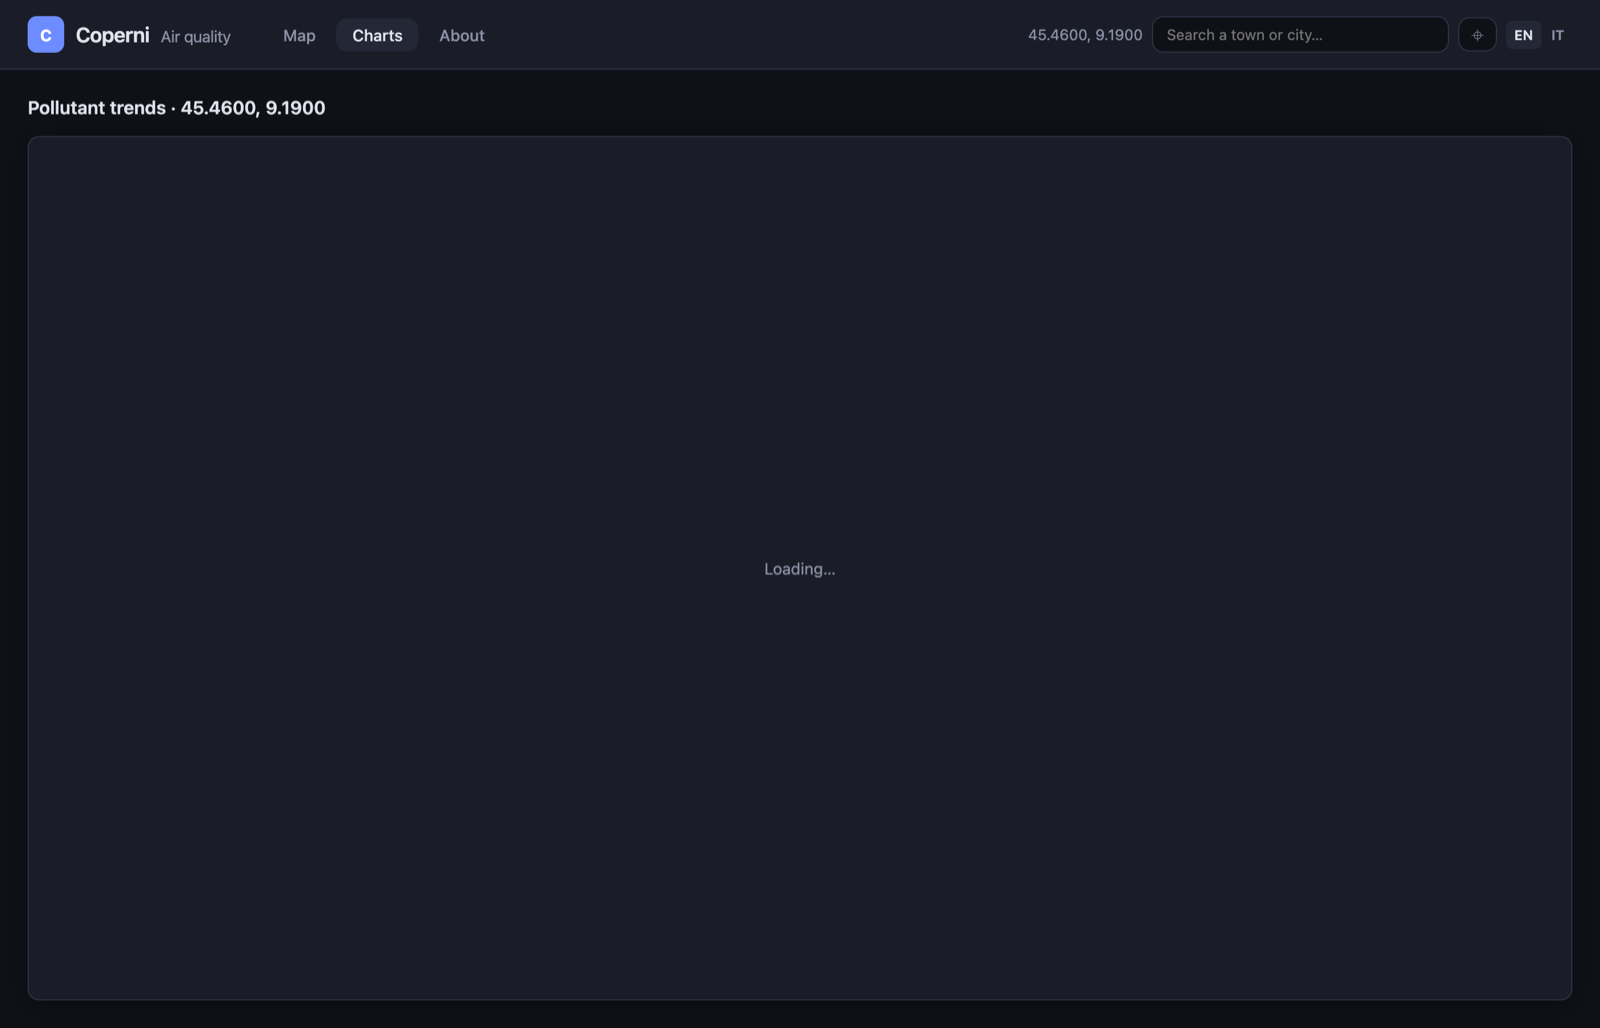
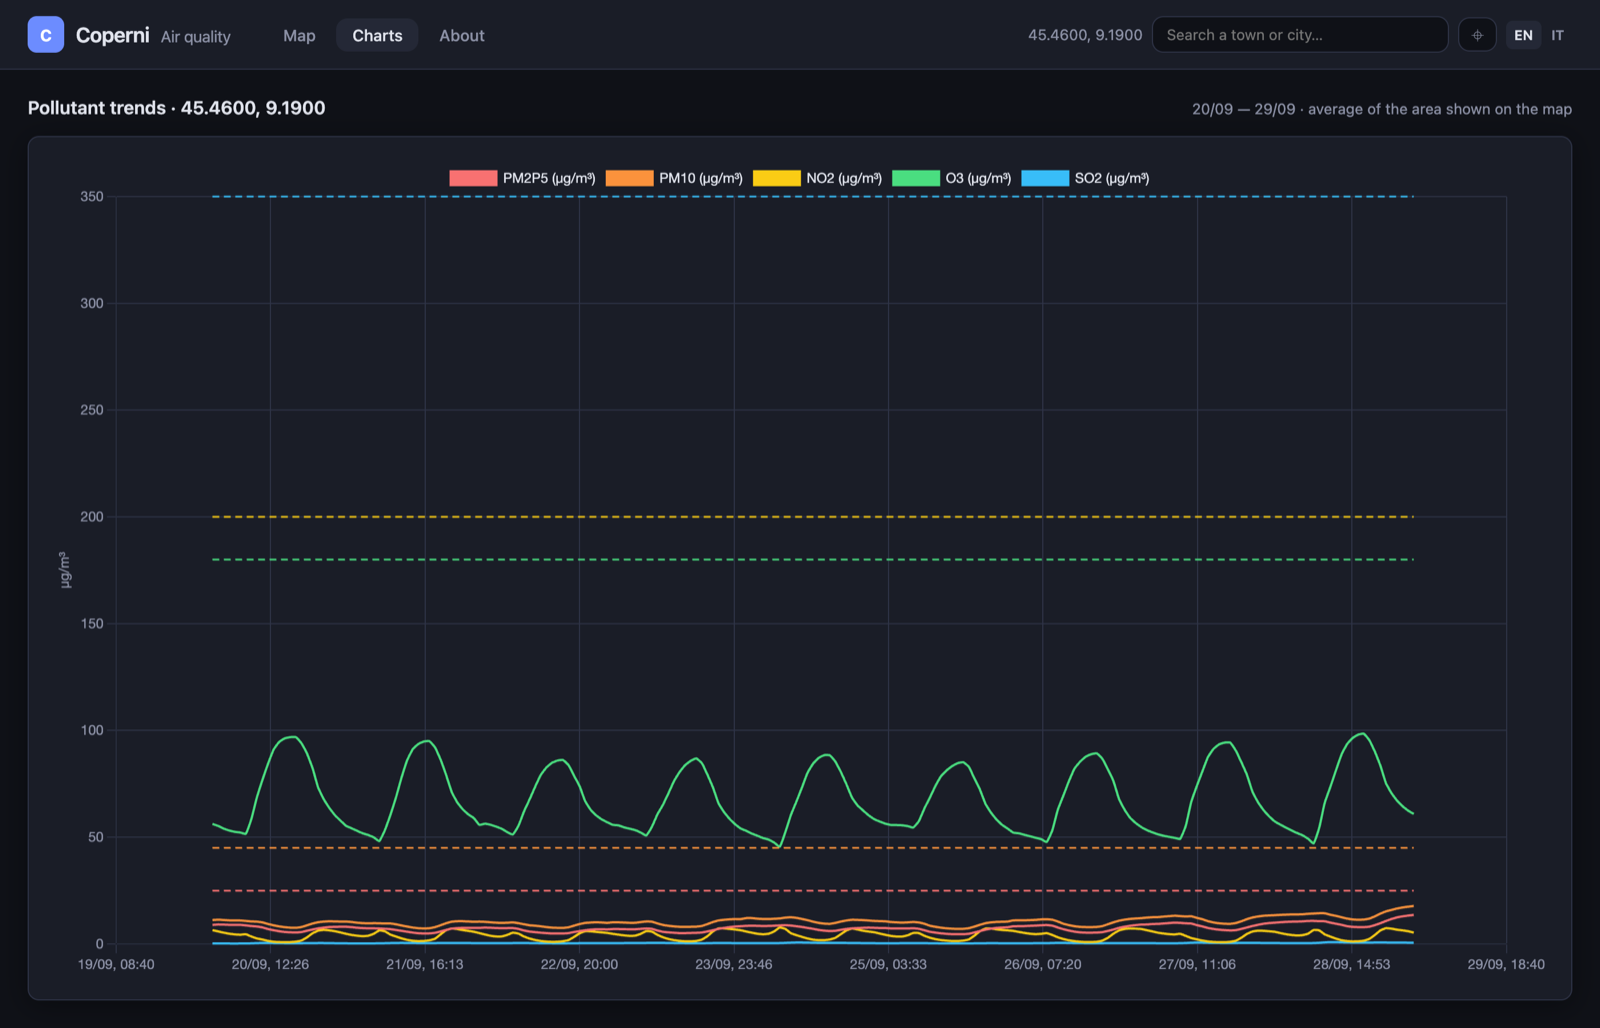
Replace CARTO basemaps with OpenFreeMap
CARTO's free tier (5M tiles/month, about 80k visits) would have become
$500/month, and its API key was visible in the page source.

- OpenFreeMap vector tiles (no key, no limits), dark and positron styles,
  drawn by MapLibre GL 5.24 under Leaflet via maplibre-gl-leaflet
- Style split in two: base under the cells, place labels above them in
  the page language; road names and shields dropped; dark style labels
  brightened and roads dimmed
- CARTO_API_KEY and CARTO_BASEMAP_STYLE removed; MAP_BASEMAP=dark|light
- Attribution, docs and README screenshots updated

diff --git a/places/templates/_base_map.html b/places/templates/_base_map.html
@@ -9,6 +9,9 @@
           integrity="sha256-p4NxAoJBhIIN+hmNHrzRCf9tD/miZyoHS5obTRR9BMY=" crossorigin=""/>
     <script src="https://unpkg.com/leaflet@1.9.4/dist/leaflet.js"
             integrity="sha256-20nQCchB9co0qIjJZRGuk2/Z9VM+kNiyxNV1lvTlZBo=" crossorigin=""></script>
+    <link rel="stylesheet" href="https://cdn.jsdelivr.net/npm/maplibre-gl@5.24.0/dist/maplibre-gl.css">
+    <script src="https://cdn.jsdelivr.net/npm/maplibre-gl@5.24.0/dist/maplibre-gl.js"></script>
+    <script src="https://cdn.jsdelivr.net/npm/@maplibre/maplibre-gl-leaflet@0.1.4/leaflet-maplibre-gl.js"></script>
     <style>
         *, *::before, *::after {
             margin: 0;
@@ -254,42 +257,93 @@
     }
     inquadra(limitiStimati(LATI[0]));
 
-    const CARTO_URL = 'https://{s}.basemaps.cartocdn.com/rastertiles/{style}/{z}/{x}/{y}.png?key={{ carto_api_key }}';
-    const cartoOptions = { subdomains: 'abcd', maxZoom: 19 };
-
-    // Sfondo chiaro o scuro (CARTO light_* / dark_*): default da CARTO_BASEMAP_STYLE, poi la
-    // scelta dell'utente ricordata nel browser. Il basemap è spezzato in due tile layer: sfondo
-    // senza etichette sotto, sole etichette sopra il layer inquinante (pane dedicato), così
-    // toponimi e strade restano leggibili attraverso il colore.
-    const SFONDI = ['dark', 'light'];
-    let sfondo = '{{ carto_sfondo }}';
+    // Sfondo OpenFreeMap (tile vettoriali, gratuite, senza chiave) disegnato da MapLibre GL sotto
+    // Leaflet. Lo stile è spezzato in due: sfondo senza etichette sotto le celle, sole etichette
+    // (layer "symbol") sopra, nel pane dedicato, così toponimi e strade restano leggibili
+    // attraverso il colore. Le etichette usano il nome nella lingua della pagina quando esiste.
+    const STILI = { dark: 'dark', light: 'positron' };
+    const SFONDI = Object.keys(STILI);
+    const LINGUA = document.documentElement.lang;
+    let sfondo = '{{ sfondo }}';
     try {
         const salvato = localStorage.getItem('coperni.sfondo');
         if (SFONDI.includes(salvato)) sfondo = salvato;
     } catch (e) { /* storage non disponibile: resta il default */ }
 
-    const baseLayer = L.tileLayer(CARTO_URL, {
-        ...cartoOptions,
-        style: `${sfondo}_nolabels`,
-        attribution: '&copy; <a href="https://www.openstreetmap.org/copyright">OSM</a> &copy; <a href="https://carto.com/">CARTO</a>',
-    }).addTo(map);
+    map.attributionControl.addAttribution(
+        '<a href="https://openfreemap.org" target="_blank">OpenFreeMap</a> ' +
+        '<a href="https://www.openmaptiles.org/" target="_blank">&copy; OpenMapTiles</a> ' +
+        'Data from <a href="https://www.openstreetmap.org/copyright" target="_blank">OpenStreetMap</a>');
 
     map.createPane('labels');
     map.getPane('labels').style.zIndex = 450;   // sopra overlayPane (400), sotto i popup (700)
     map.getPane('labels').style.pointerEvents = 'none';
-    const labelsLayer = L.tileLayer(CARTO_URL, { ...cartoOptions, style: `${sfondo}_only_labels`, pane: 'labels' }).addTo(map);
-    document.getElementById('map').dataset.sfondo = sfondo;
 
-    function impostaSfondo(nome) {
+    // lo stile Dark di OpenFreeMap ha nomi piccoli e spenti e strade molto evidenti: sotto le celle
+    // colorate i luoghi si leggevano male. Nomi più chiari e grandi con alone, strade attenuate.
+    // moltiplica i valori di una dimensione: numero, {stops: [[zoom, v]…]} o ["interpolate", …, zoom, v…]
+    function scala(valore, k) {
+        if (typeof valore === 'number') return valore * k;
+        if (valore?.stops) return { ...valore, stops: valore.stops.map(([z, v]) => [z, v * k]) };
+        if (Array.isArray(valore) && valore[0] === 'interpolate') {
+            return valore.map((v, i) => (i >= 4 && i % 2 === 0 && typeof v === 'number') ? v * k : v);
+        }
+        return valore;
+    }
+
+    function ritoccaScuro(stile) {
+        for (const l of stile.layers) {
+            if (l.type === 'symbol' && l['source-layer'] === 'place') {
+                l.paint = { ...l.paint, 'text-color': '#d4d8e2', 'text-halo-color': '#0e0e0e', 'text-halo-width': 1.4 };
+                if (l.layout['text-size'] !== undefined) l.layout['text-size'] = scala(l.layout['text-size'], 1.15);
+            }
+            if (l.type === 'line' && l['source-layer'] === 'transportation') {
+                l.paint = { ...l.paint, 'line-opacity': 0.45 };
+            }
+        }
+    }
+
+    const stiliCaricati = {};
+    async function stiliPer(nome) {
+        if (!stiliCaricati[nome]) {
+            const stile = await (await fetch(`https://tiles.openfreemap.org/styles/${STILI[nome]}`)).json();
+            // niente nomi e sigle di strade: sopra le celle servono solo luoghi e acque
+            stile.layers = stile.layers.filter(l => !(l.type === 'symbol'
+                && ['transportation', 'transportation_name'].includes(l['source-layer'])));
+            const etichetta = l => l.type === 'symbol';
+            if (nome === 'dark') ritoccaScuro(stile);
+            for (const l of stile.layers.filter(etichetta)) {
+                const campo = l.layout?.['text-field'];
+                if (campo && JSON.stringify(campo).includes('name')) {
+                    l.layout['text-field'] = ['coalesce', ['get', `name:${LINGUA}`], campo];
+                }
+            }
+            stiliCaricati[nome] = {
+                base: { ...stile, layers: stile.layers.filter(l => !etichetta(l)) },
+                etichette: { ...stile, layers: stile.layers.filter(etichetta) },
+            };
+        }
+        return stiliCaricati[nome];
+    }
+
+    let baseLayer = null, labelsLayer = null;
+    async function impostaSfondo(nome, ricorda = true) {
         if (!SFONDI.includes(nome)) return;
         sfondo = nome;
-        try { localStorage.setItem('coperni.sfondo', nome); } catch (e) {}
-        baseLayer.options.style = `${nome}_nolabels`;
-        labelsLayer.options.style = `${nome}_only_labels`;
-        baseLayer.redraw();
-        labelsLayer.redraw();
+        if (ricorda) try { localStorage.setItem('coperni.sfondo', nome); } catch (e) {}
         document.getElementById('map').dataset.sfondo = nome;
+        const { base, etichette } = await stiliPer(nome);
+        if (nome !== sfondo) return;   // nel frattempo è stato scelto l'altro sfondo
+        if (baseLayer) {
+            baseLayer.getMaplibreMap().setStyle(base);
+            labelsLayer.getMaplibreMap().setStyle(etichette);
+            return;
+        }
+        const opzioni = { interactive: false, attributionControl: false };
+        baseLayer = L.maplibreGL({ ...opzioni, style: base, pane: 'tilePane' }).addTo(map);
+        labelsLayer = L.maplibreGL({ ...opzioni, style: etichette, pane: 'labels' }).addTo(map);
     }
+    impostaSfondo(sfondo, false);
 
     function showSpinner(show) {
         document.getElementById('spinner').classList.toggle('active', show);

diff --git a/pagine/templates/pagine/it/dati.html b/pagine/templates/pagine/it/dati.html
@@ -50,7 +50,7 @@
 <p class="dim">
     Generato usando informazioni del Copernicus Atmosphere Monitoring Service ({% now "Y" %}).
     Né la Commissione europea né l'ECMWF sono responsabili dell'uso che può essere fatto delle
-    informazioni o dei dati Copernicus qui contenuti. Mappe di sfondo © OpenStreetMap
-    contributors © CARTO.
+    informazioni o dei dati Copernicus qui contenuti. Mappe di sfondo: <a href="https://openfreemap.org" rel="noopener">OpenFreeMap</a> © OpenMapTiles,
+    dati © OpenStreetMap contributors.
 </p>
 {% endblock %}

diff --git a/pagine/templates/pagine/en/dati.html b/pagine/templates/pagine/en/dati.html
@@ -47,6 +47,6 @@
 <p class="dim">
     Generated using Copernicus Atmosphere Monitoring Service information ({% now "Y" %}).
     Neither the European Commission nor ECMWF is responsible for any use that may be made of the
-    Copernicus information or data it contains. Basemaps © OpenStreetMap contributors © CARTO.
+    Copernicus information or data it contains. Basemaps: <a href="https://openfreemap.org" rel="noopener">OpenFreeMap</a> © OpenMapTiles, data © OpenStreetMap contributors.
 </p>
 {% endblock %}

diff --git a/places/views.py b/places/views.py
@@ -8,14 +8,6 @@ from places.centro import centro_da_richiesta, ricorda
 from places.testi import testi_js
 
 
-def _carto_style_prefix():
-    style = settings.CARTO_BASEMAP_STYLE
-    for suffix in ("_all", "_nolabels", "_only_labels", "_labels_under"):
-        if style.endswith(suffix):
-            return style.removesuffix(suffix)
-    return style
-
-
 def _contesto(request, nav_attiva):
     centro = centro_da_richiesta(request)
     return centro, {
@@ -35,11 +27,8 @@ def _contesto(request, nav_attiva):
 
 def map_view(request):
     centro, context = _contesto(request, "map")
-    context |= {
-        "carto_api_key": settings.CARTO_API_KEY,
-        # sfondo iniziale (dark/light): l'utente lo cambia dalla mappa, la scelta resta nel browser
-        "carto_sfondo": "light" if _carto_style_prefix() == "light" else "dark",
-    }
+    # sfondo iniziale (dark/light): l'utente lo cambia dalla mappa, la scelta resta nel browser
+    context["sfondo"] = "light" if settings.MAP_BASEMAP == "light" else "dark"
     return ricorda(render(request, "map_view.html", context), centro)
 
 

diff --git a/config/settings.py b/config/settings.py
@@ -131,13 +131,9 @@ CDS_API_KEY = os.environ.get('CDS_API_KEY')
 # (bucket pubblico in lettura, il web lo legge via HTTPS) oppure una cartella locale in sviluppo.
 CAMS_STORAGE = os.environ.get('CAMS_STORAGE', str(BASE_DIR / 'data' / 'cams'))
 
-# CARTO ora richiede una API key anche per i basemap tile gratuiti (dark_all/light_all su
-# basemaps.cartocdn.com) — senza non vengono più serviti. Chiave gratuita da carto.com.
-CARTO_API_KEY = os.environ.get('CARTO_API_KEY')
-
-# Stile basemap CARTO: 'dark_all' o 'light_all' (altri disponibili: light_nolabels,
-# dark_nolabels, light_only_labels, dark_only_labels).
-CARTO_BASEMAP_STYLE = os.environ.get('CARTO_BASEMAP_STYLE', 'dark_all')
+# Sfondo iniziale della mappa (OpenFreeMap, niente chiave): 'dark' o 'light'. L'utente lo cambia
+# dalla mappa e la scelta resta nel browser.
+MAP_BASEMAP = os.environ.get('MAP_BASEMAP', 'dark')
 
 # Centro proposto quando l'URL non ne indica uno. Default: Mezzolombardo (TN)
 COPERNICUS_LATITUDE = float(os.environ.get('COPERNICUS_LATITUDE', '46.215022'))

diff --git a/CLAUDE.md b/CLAUDE.md
@@ -126,9 +126,9 @@ done by the bucket **lifecycle rule** (21 days).
     `tratteggio` (hatching: line width ∝ ratio) — `userSpaceOnUse` SVG patterns created on demand
     in `<svg id="trame">` (20 steps) and used as `fillColor: url(#id)` (needs the SVG renderer, not
     canvas) — or `trasparenza` (opacity `alphaForRatio`, 0.08→0.75). "Intensità" slider multiplies
-    opacity. CARTO basemap split in two (`<style>_nolabels` below, `<style>_only_labels` in the
+    opacity. OpenFreeMap basemap (see Basemap below) split in two: base below, labels in the
     `labels` pane above); dark/light **"Sfondo"** selector (`impostaSfondo` in `_base_map.html`,
-    `localStorage` `coperni.sfondo`, default from `CARTO_BASEMAP_STYLE`). Every load has a number
+    `localStorage` `coperni.sfondo`, default from `MAP_BASEMAP`). Every load has a number
     (`ultimaRichiesta`): stale responses are dropped (avoids duplicate layers). Bottom-left box
     (`riferimento-dati`): shown hour and run used, ±1h/±24h arrows within the API's
     `primo`/`ultimo` and a "now" button (`istante = null` = current hour). Rapid clicks: text
@@ -160,6 +160,22 @@ done by the bucket **lifecycle rule** (21 days).
   `PAGINE` and pollutant names are `gettext_lazy`.
 - With `runserver --noreload` templates stay cached (cached loader): restart after editing them.
 
+## Basemap (OpenFreeMap)
+
+- Replaced CARTO raster tiles (free tier 5M tiles/month ≈ 80k visits, key exposed in the page) with
+  [OpenFreeMap](https://openfreemap.org) vector tiles: no key, no limits, no SLA (one maintainer,
+  donations). Styles `dark` and `positron`, fetched from `tiles.openfreemap.org/styles/<name>`.
+- Drawn by **MapLibre GL 5.x** under Leaflet with `@maplibre/maplibre-gl-leaflet` (pinned on
+  jsdelivr). MapLibre 6 is ESM-only and the plugin's UMD build needs `window.maplibregl`: stay on
+  5.x unless the plugin changes.
+- `_base_map.html:stiliPer()` splits each style: non-symbol layers → layer in `tilePane`, symbol
+  layers → layer in the `labels` pane (above the cells). Road names/shields
+  (`transportation`, `transportation_name`) are dropped; place labels use
+  `coalesce(name:<page lang>, original)`. `ritoccaScuro()` brightens and enlarges place labels and
+  dims roads in the dark style (`scala()` multiplies sizes inside zoom expressions: MapLibre
+  forbids wrapping `zoom` expressions).
+- If OpenFreeMap disappears: self-host the same styles on PMTiles (a Europe extract on a bucket).
+
 ## Deploy
 
 Google Cloud, region `europe-west1`: two images from `docker/Dockerfile` (`--target web`,
@@ -178,11 +194,7 @@ public-read bucket. Details and setup commands in [`docs/architecture.md`](docs/
 ## Configuration (env)
 
 See `.env.example`. Worth remembering:
-- **`CARTO_API_KEY`** is required: URL `.../rastertiles/<style>/{z}/{x}/{y}.png?key=...`
-  (`rastertiles/` prefix and **`key`** param, not `api_key`, otherwise an error watermark). The
-  raster service is being phased out in favour of vector basemaps.
-- `CARTO_BASEMAP_STYLE` (default `dark_all`): **initial** background only, `light_*` → light,
-  anything else → dark.
+- `MAP_BASEMAP` (default `dark`): **initial** background only, `light` or `dark`; no key needed.
 - `CAMS_STORAGE`, `COPERNICUS_POLLUTANTS`, `COPERNICUS_SOGLIA_*` (EU thresholds),
   `COPERNICUS_LATITUDE/LONGITUDE` (default centre).
 - **Deliberate choice:** map and popup compare the **current hour's value** with the threshold,

diff --git a/README.md b/README.md
@@ -134,7 +134,9 @@ the reasoning behind it and how to deploy your own copy.
     the grid, cached until the top of the hour.
   - `GET /copernicus/api/serie/?lat&lon&lato&aspect`: hourly area averages for the charts,
     cached 15 min.
-- Front end: Django templates, htmx (place search), Leaflet with CARTO raster basemaps, Chart.js.
+- Front end: Django templates, htmx (place search), Leaflet, Chart.js. Basemap: [OpenFreeMap](https://openfreemap.org)
+  vector tiles (no key, no usage limits) drawn by MapLibre GL under Leaflet, split in two: the
+  base below the cells, place labels above them, in the page language.
   Cell textures are SVG patterns, so the map uses Leaflet's SVG renderer.
 - Languages: Django i18n with the language in the URL: English without prefix (`/places/`),
   Italian under `/it/` (`/it/places/`), `hreflang` links for search engines. `/` redirects to the
@@ -150,11 +152,10 @@ htmx · Bootstrap · Google Cloud Run, Cloud Scheduler, Cloud Storage.
 ## Running locally
 
 Requirements: Python 3.14, [Poetry](https://python-poetry.org/), an
-[ADS API key](https://ads.atmosphere.copernicus.eu/how-to-api) (for the export only) and a
-[CARTO](https://carto.com/) API key for basemap tiles.
+[ADS API key](https://ads.atmosphere.copernicus.eu/how-to-api) (for the export only).
 
 ```bash
-cp .env.example .env                        # fill in CDS_API_KEY, CARTO_API_KEY, ...
+cp .env.example .env                        # fill in CDS_API_KEY, ...
 poetry install --with job,luoghi            # main = web only; job = CAMS export; luoghi = places build
 
 poetry run python manage.py migrate
@@ -188,8 +189,7 @@ All configuration is done with environment variables (see [`.env.example`](.env.
 |---|---|
 | `CDS_API_URL`, `CDS_API_KEY` | ADS credentials (export job only) |
 | `CAMS_STORAGE` | `gs://bucket/prefix` (read by the web over public HTTPS) or a local folder; default `data/cams` |
-| `CARTO_API_KEY` | required for basemap tiles |
-| `CARTO_BASEMAP_STYLE` | initial basemap, `dark_all` (default) or `light_all` |
+| `MAP_BASEMAP` | initial basemap, `dark` (default) or `light` |
 | `COPERNICUS_POLLUTANTS` | default `pm2p5,pm10,no2,o3,so2` |
 | `COPERNICUS_SOGLIA_*` | thresholds per pollutant (µg/m³) |
 | `COPERNICUS_LATITUDE`, `COPERNICUS_LONGITUDE` | default map centre |
@@ -209,7 +209,7 @@ security problems privately as described in [SECURITY.md](SECURITY.md).
   Data used under the [Copernicus licence](https://apps.ecmwf.int/datasets/licences/copernicus/).
 - **Places**: [ISTAT](https://www.istat.it/) (administrative boundaries and codes) and
   [GeoNames](https://www.geonames.org/) (CC BY 4.0).
-- **Basemaps**: © [OpenStreetMap](https://www.openstreetmap.org/copyright) contributors ©
-  [CARTO](https://carto.com/attributions).
+- **Basemaps**: [OpenFreeMap](https://openfreemap.org) © [OpenMapTiles](https://openmaptiles.org),
+  data © [OpenStreetMap](https://www.openstreetmap.org/copyright) contributors.
 
 The code is released under the [Apache License 2.0](LICENSE).

diff --git a/docs/architecture.md b/docs/architecture.md
@@ -23,6 +23,7 @@ bucket, and a stateless web service reads just the slice it needs with DuckDB.
   Browser ─────────►│ Cloud Run service          │  Django + DuckDB + SQLite (places)
                     │ 0–3 instances · 512 MiB    │  no credentials needed
                     └────────────────────────────┘
+  Browser ─────────► OpenFreeMap (basemap vector tiles, public, no key)
 ```
 
 ## Components
@@ -34,7 +35,7 @@ bucket, and a stateless web service reads just the slice it needs with DuckDB.
 | **Cloud Storage** | Stores the Parquet files and `indice.json` | Public read (Copernicus data is open; attribution is on the site). Lifecycle rule deletes old `.parquet` files. |
 | **Cloud Run service** | Serves the site and the JSON APIs | Image `--target web`. Scales to zero; concurrency 8, gunicorn with 1 worker × 8 threads so all requests share one DuckDB metadata cache. |
 | **Artifact Registry** | Hosts the `web` and `job` images | Pushed by GitHub Actions on `v*` tags. |
-| **Secret Manager** | `DJANGO_SECRET_KEY`, `CARTO_API_KEY`, ADS key | Mounted as env vars; nothing secret in the images or the repository. |
+| **Secret Manager** | `DJANGO_SECRET_KEY`, ADS key | Mounted as env vars; nothing secret in the images or the repository. |
 
 ## Why this shape
 
@@ -90,14 +91,13 @@ gcloud storage buckets update gs://BUCKET --lifecycle-file=lifecycle.json
 ```bash
 printf '%s' "<ads-key>"    | gcloud secrets create cds-api-key       --data-file=- --project PROJECT
 printf '%s' "<django-key>" | gcloud secrets create django-secret-key --data-file=- --project PROJECT
-printf '%s' "<carto-key>"  | gcloud secrets create carto-api-key     --data-file=- --project PROJECT
 ```
 
 One service account per role, each with only what it needs:
 
 | Service account | Permissions |
 |---|---|
-| `coperni-web` | `secretAccessor` on `django-secret-key` and `carto-api-key` |
+| `coperni-web` | `secretAccessor` on `django-secret-key` |
 | `coperni-job` | `secretAccessor` on `cds-api-key`, `objectAdmin` on the bucket |
 | `coperni-scheduler` | `run.invoker` on the job |
 | `github-deploy` | deploy rights on the service and the job, `artifactregistry.writer`, `iam.serviceAccountUser` on `coperni-web` and `coperni-job` |
@@ -123,7 +123,7 @@ gcloud run deploy coperni-web --region REGION --project PROJECT \
   --service-account coperni-web@PROJECT.iam.gserviceaccount.com \
   --allow-unauthenticated --memory 512Mi --concurrency 8 --min-instances 0 --max-instances 3 \
   --set-env-vars CAMS_STORAGE=gs://BUCKET/cams,DJANGO_DEBUG=False,DJANGO_ALLOWED_HOSTS=your.domain,CSRF_TRUSTED_ORIGINS=https://your.domain \
-  --set-secrets DJANGO_SECRET_KEY=django-secret-key:latest,CARTO_API_KEY=carto-api-key:latest
+  --set-secrets DJANGO_SECRET_KEY=django-secret-key:latest
 ```
 
 The first images can be built with Cloud Build (`.gcloudignore` is included) or locally on an

diff --git a/CONTRIBUTING.md b/CONTRIBUTING.md
@@ -59,7 +59,7 @@ Source strings are in English. You need GNU gettext (`brew install gettext`, `ap
 
 Coperni redistributes and displays Copernicus data. Any change must keep the attribution on the
 site ("Generated using Copernicus Atmosphere Monitoring Service information") and the credits for
-ISTAT, GeoNames, OpenStreetMap and CARTO.
+ISTAT, GeoNames, OpenStreetMap, OpenMapTiles and OpenFreeMap.
 
 By contributing you agree that your contributions are licensed under the
 [Apache License 2.0](LICENSE).
